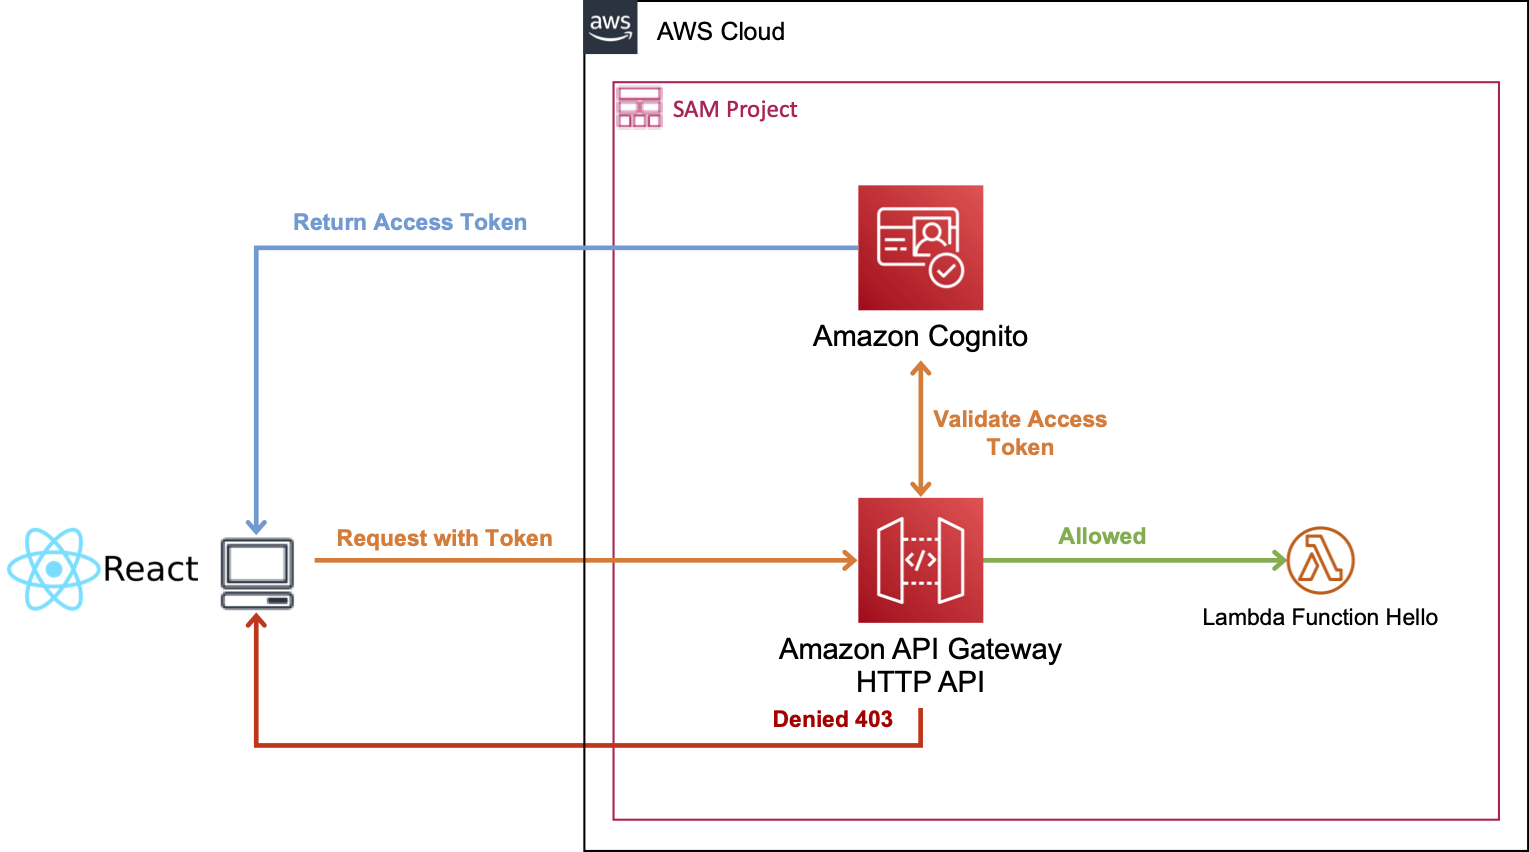
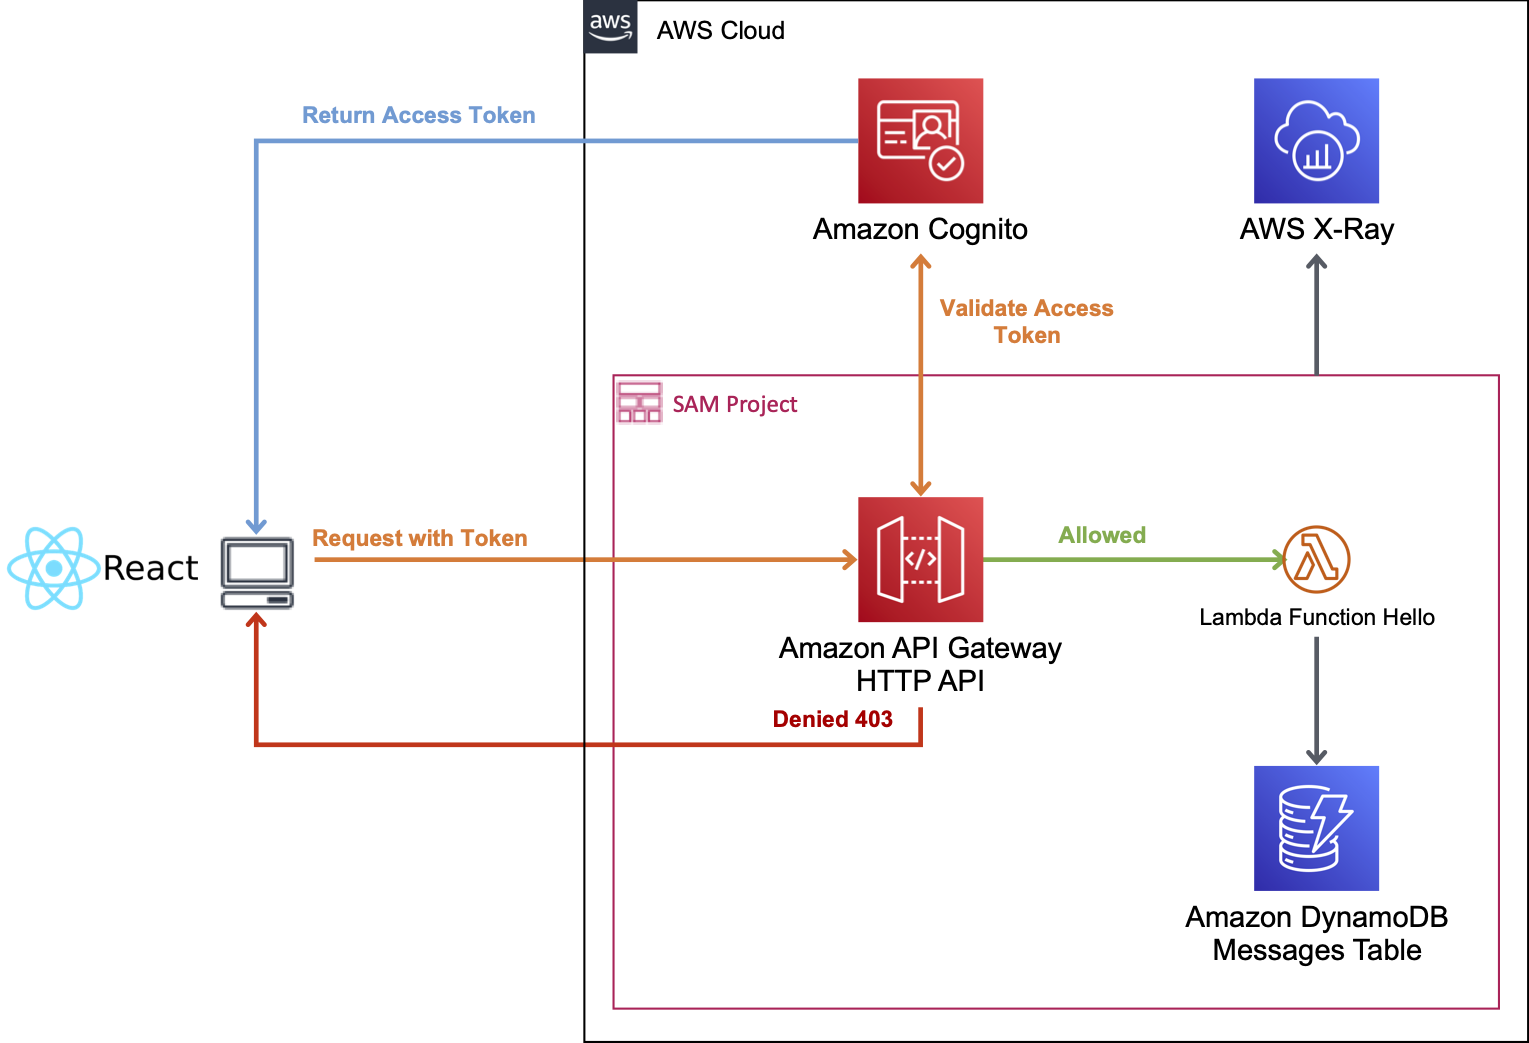
Update with x-ray

Changed region(s): [[0.0, 0.4577, 0.9836, 0.9765], [0.1537, 0.061, 0.9836, 0.4272], [0.3689, 0.0, 0.5226, 0.061]]

diff --git a/amplify/src/App.js b/amplify/src/App.js
@@ -25,7 +25,7 @@ class App extends Component {
     if (userInfo){
       try {
         let apiName = 'HttpApi';
-        let path = 'hello';
+        let path = 'hello/hello';
         let myInit = {
             headers: { Authorization: `Bearer ${(await Auth.currentSession()).getAccessToken().getJwtToken()}` }, 
             response: true,

diff --git a/hello-world/app.py b/hello-world/app.py
@@ -1,0 +1,54 @@
+import json
+import boto3
+from botocore.exceptions import ClientError
+from aws_xray_sdk.core import xray_recorder
+from aws_xray_sdk.core import patch_all
+import os
+
+patch_all()
+
+def handler(event, context):
+    myres = {
+            "statusCode": 200,
+            'headers': {
+                'Content-Type': 'application/json',
+                'Access-Control-Allow-Origin': '*'
+                },
+            "body": "",
+        }
+    path_parameters = event['pathParameters']
+    MESSAGES_TABLE = os.environ['MESSAGES_TABLE']
+    dynamodb = boto3.client("dynamodb")
+    try:
+        response = dynamodb.update_item(
+            TableName=MESSAGES_TABLE,
+            Key={
+                'message': {
+                    'S': path_parameters['message']
+                }
+            },
+            AttributeUpdates={
+                'count': {
+                    'Value': { 'N': '1' },
+                    'Action': 'ADD'
+                }
+            },
+            ReturnValues='ALL_NEW'
+        )
+        print(response)
+        if 'Attributes' in response:
+            myres['statusCode'] = 200
+            myres['body'] = json.dumps( { 'message': path_parameters['message'] + ' - ' + response['Attributes']['count']['N'] })
+            print(myres)
+            return myres
+        else:
+            myres['statusCode'] = 500
+            myres['body'] = json.dumps({ "message": "Error." })
+            print(myres)
+            return myres
+    except ClientError as e:
+        print(e)
+        myres['statusCode'] = 500
+        myres['body'] = json.dumps({ "message": "Error." })
+        print(myres)
+        return myres

diff --git a/README.md b/README.md
@@ -2,17 +2,53 @@
 
 ![SAM - API Gateway HTTP API with Cognito Authorizer](images/diagram.png)
 
-# Prerequisites
+## Prerequisites
 
 * [React application with Amazon Cognito created with Amplify](https://github.com/aurbac/amplify-react-app)
 
-# Testing the API inside your React application with Amplify
+## Deploy the SAM application
+
+Based on the `AWS Quick Start Template` update the **[template.yml](template.yml)** and replace the files for the **[hello-world](hello-world)** code function.
+
+To build your application run the following using a docker container:
+
+```bash
+sam build --use-container
+```
+
+To deploy your application for the first time, run the following and specify the Cognito and App information:
+
+```bash
+sam deploy --guided
+```
+
+* Stack Name [sam-app]: **sam-http-api-cognito-authorizer**
+* AWS Region [us-east-1]: **<aws_cognito_region>** (Your AWS Region, you can find it in your Amplify project at **src/aws-exports.js**)
+* Parameter UserPoolId []: **<aws_user_pools_id>** (Your User Pool Id, you can find it in your Amplify project at **src/aws-exports.js**)
+* Parameter ClientId []: **<aws_user_pools_web_client_id>** (Your Web Client Id, you can find it in your Amplify project at **src/aws-exports.js**)
+* Parameter AllowOrigin []: **<UrlApplication>** (You can use your Cloud9 URL or you CloudFront domain of your Amplify application).
+#Shows you resources changes to be deployed and require a 'Y' to initiate deploy
+* Confirm changes before deploy [y/N]: **y**
+#SAM needs permission to be able to create roles to connect to the resources in your template
+* Allow SAM CLI IAM role creation [Y/n]: **y**
+* Save arguments to configuration file [Y/n]: **y**
+* SAM configuration file [samconfig.toml]: 
+* SAM configuration environment [default]: 
+
+## Testing the API inside your React application with Amplify
 
 In you Amplify project replace your **src/App.js** with the following file [src/App.js](amplify/src/App.js) and **src/index.js** with the following file [src/index.js](amplify/src/index.js).
 
 For **src/index.js** replace: `<HttpApiUrl>` and `<Region>` with your own values.
 
-# References
+## View AWS X-Ray service maps and trace views
+
+You can see in AWS X-Ray information about your API and all of its downstream services, for this project you can see something like this:
+
+![View AWS X-Ray service maps and trace views](images/xray.png)
+
+## References
 
 * [SAM - AWS::Serverless::HttpApi](https://docs.aws.amazon.com/serverless-application-model/latest/developerguide/sam-resource-httpapi.html).
 * [Working with HTTP APIs](https://docs.aws.amazon.com/apigateway/latest/developerguide/http-api.html)
+* [Using AWS X-Ray service maps and trace views with API Gateway](https://docs.aws.amazon.com/apigateway/latest/developerguide/apigateway-using-xray-maps.html)
